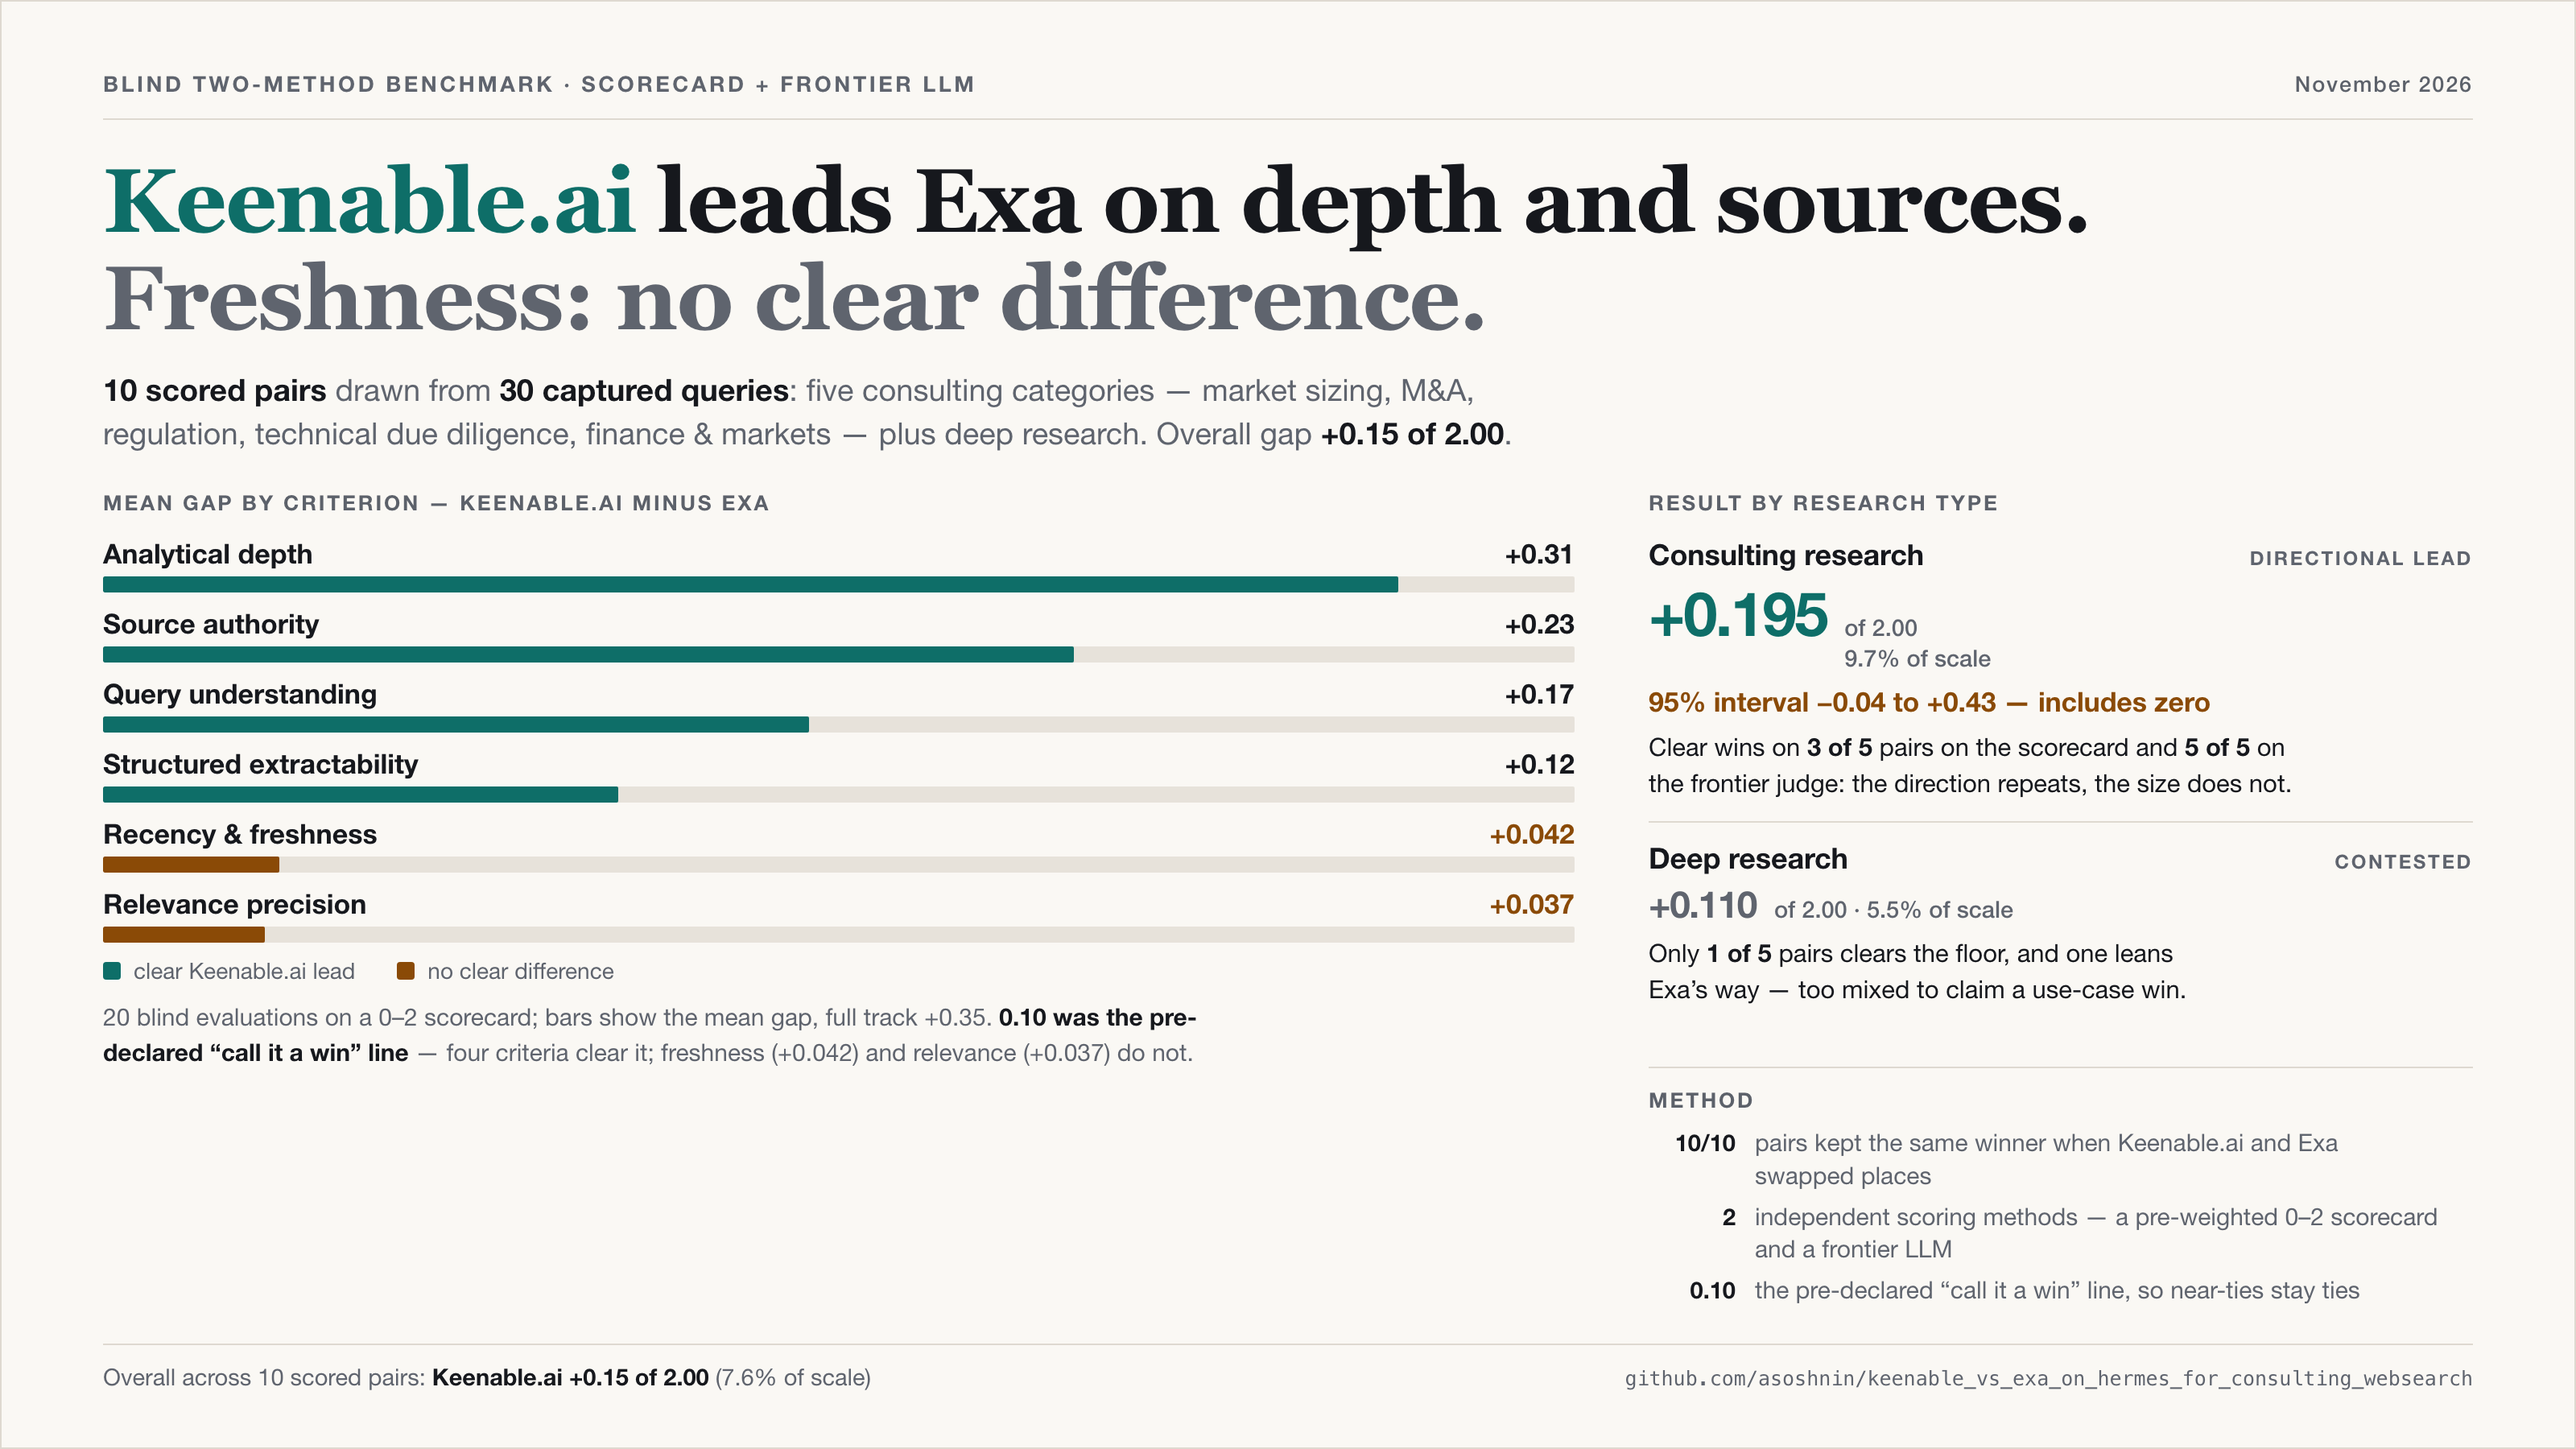
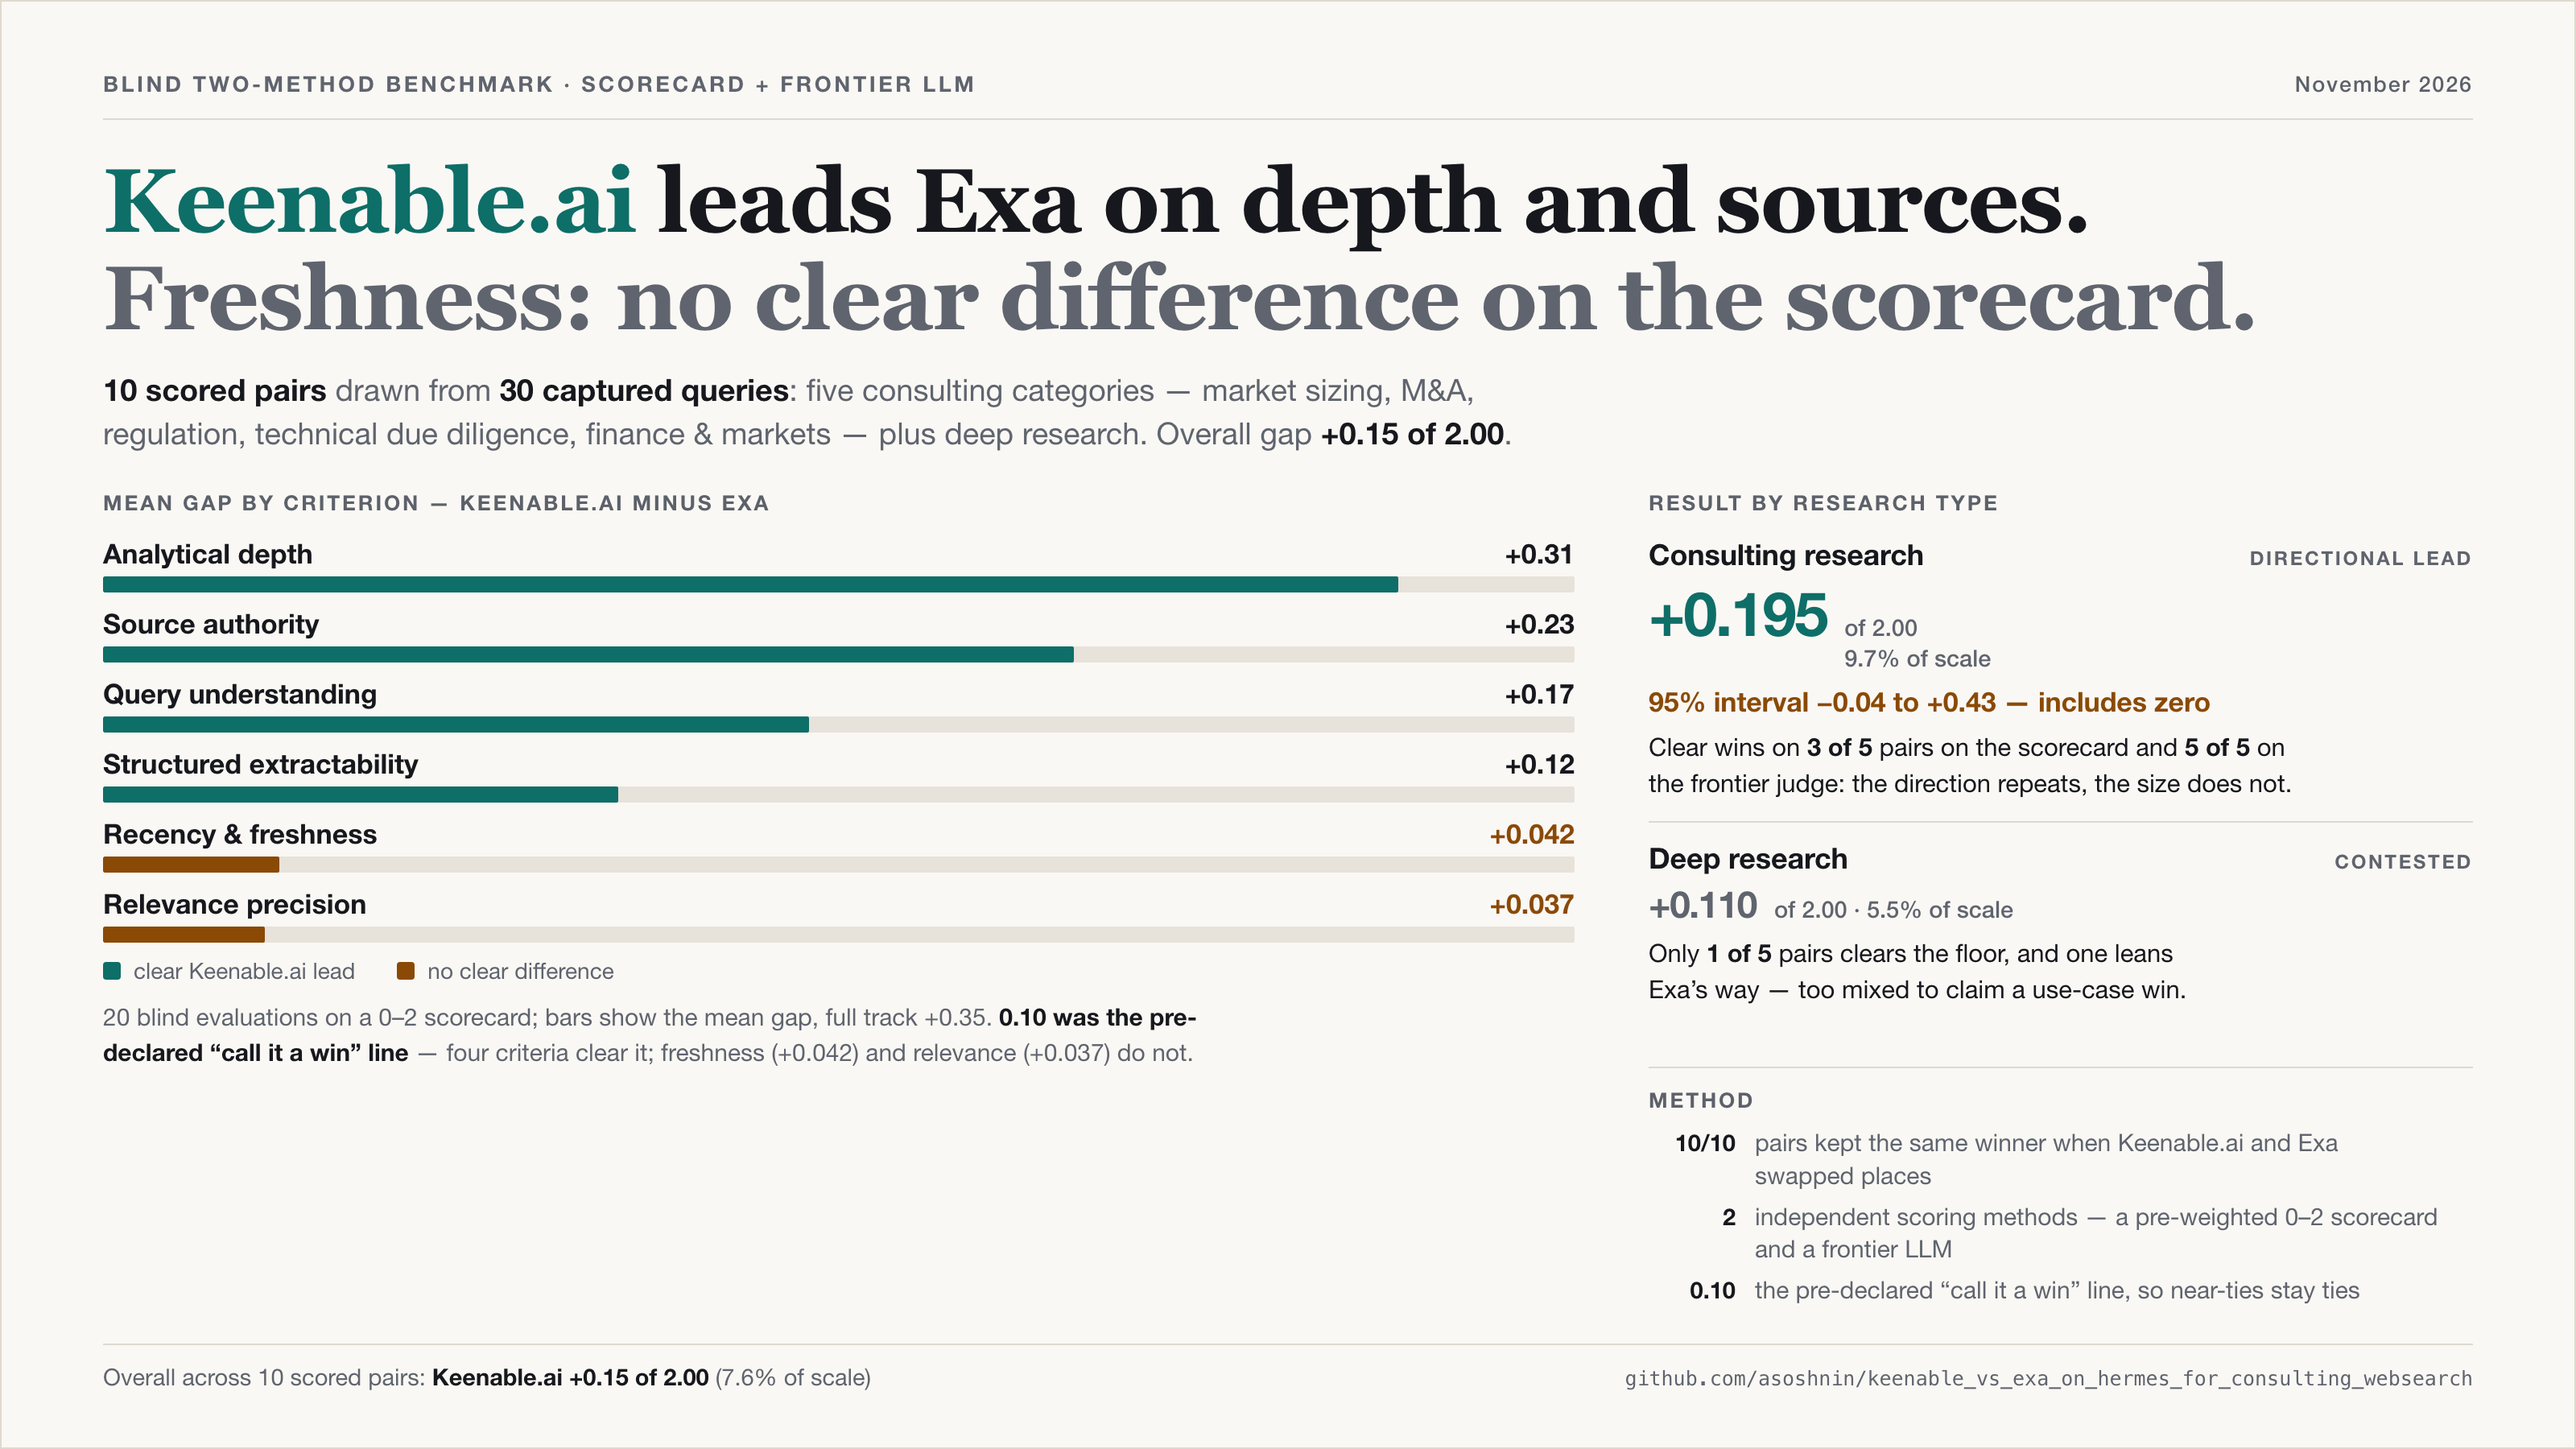
Attribute the freshness claim to the scorecard
The two scoring methods disagree on recency, and that is a finding, not noise:
the scorecard puts the gap at +0.042 (below the pre-declared 0.10 floor) while
the frontier judge puts it at +0.60, where freshness is its largest delta.

The slide headline stated the scorecard result unqualified, so it contradicted
the frontier judge. Now reads 'Freshness: no clear difference on the scorecard',
matching the chart, which was already labelled scorecard-only. README alt text
and the finding paragraph carry the same attribution plus both figures.

No code or report change: the judges genuinely disagree, the data records both,
and the report already discloses the disagreement.

Changed region(s): [[0.5625, 0.1867, 0.875, 0.2489]]

diff --git a/assets/slide.html b/assets/slide.html
@@ -132,7 +132,7 @@
   </div>
   <div class="hr"></div>
 
-  <h1><span class="keen">Keenable.ai</span> leads Exa on depth and sources.<br><span class="tie">Freshness: no clear difference.</span></h1>
+  <h1><span class="keen">Keenable.ai</span> leads Exa on depth and sources.<br><span class="tie">Freshness: no clear difference on the scorecard.</span></h1>
   <p class="sub">
     <b>10 scored pairs</b> drawn from <b>30 captured queries</b>: five consulting categories &mdash;
     market sizing, M&amp;A, regulation, technical due diligence, finance &amp; markets &mdash; plus deep

diff --git a/README.md b/README.md
@@ -13,7 +13,7 @@ The harness produced the accompanying report — `paper/REPORT.md` and `paper/re
 comparing **Keenable.ai** against **Exa**: 30 queries captured across six categories, of which
 **10 pairs** were scored blind by two independent scoring methods in both presentation orders.
 
-[![One-slide summary: Keenable.ai leads Exa on analytical depth (+0.31 of 2) and source authority; freshness shows no clear difference. The consulting lead is consistent in direction but its confidence interval includes zero; deep research is contested. Ten blind-scored pairs drawn from 30 captured queries.](assets/slide.png?v=5efb1794)](paper/report.pdf)
+[![One-slide summary: Keenable.ai leads Exa on analytical depth (+0.31 of 2) and source authority; freshness shows no clear difference on the scorecard. The consulting lead is consistent in direction but its confidence interval includes zero; deep research is contested. Ten blind-scored pairs drawn from 30 captured queries.](assets/slide.png?v=61f79f65)](paper/report.pdf)
 
 *One-slide summary — click for the [full report](paper/report.pdf), or open the
 [full-size PNG](assets/slide.png) (3200×1800).*
@@ -30,11 +30,16 @@ comparing **Keenable.ai** against **Exa**: 30 queries captured across six catego
 Keenable.ai wins, but not for the reason usually claimed. Across **10 blind-scored pairs** (from
 30 captured queries) its advantage concentrates in **analytical depth** (+0.31 of 2, the largest
 of six criteria) and **source authority** (+0.23). On **recency and freshness** — the criterion
-everyone expects a challenger to compete on — it is ahead by only **+0.042**: below the
-pre-declared 0.10 clear-win floor, and level with relevance precision. That is **no clear
-difference, and specifically not a deficit** — it never trails in aggregate, though it does lose
-one query (SaaS comps) and draw another. No test was run at the criterion level; the "no clear
-difference" call is the pre-declared floor, not a significance test.
+everyone expects a challenger to compete on — it is ahead by only **+0.042** on the
+scorecard: below the pre-declared 0.10 clear-win floor. That is **no clear difference, and
+specifically not a deficit** — it never trails in aggregate, though it does lose one query (SaaS
+comps) and draw another. No test was run at the criterion level; the call is the pre-declared
+floor, not a significance test.
+
+**The two scoring methods disagree on recency**, and that is reported rather than averaged away:
+the scorecard puts the gap at +0.042, the frontier judge at +0.60, where freshness is its single
+largest delta. Depth is the one criterion both methods agree on (+0.31 scorecard, +0.50 frontier),
+which is why it carries the headline.
 
 The lead is consistent in **direction** on consulting-style research — clear wins on **3 of 5**
 pairs on the scorecard and **5 of 5** on the frontier judge — but the scorecard's 95% interval,
